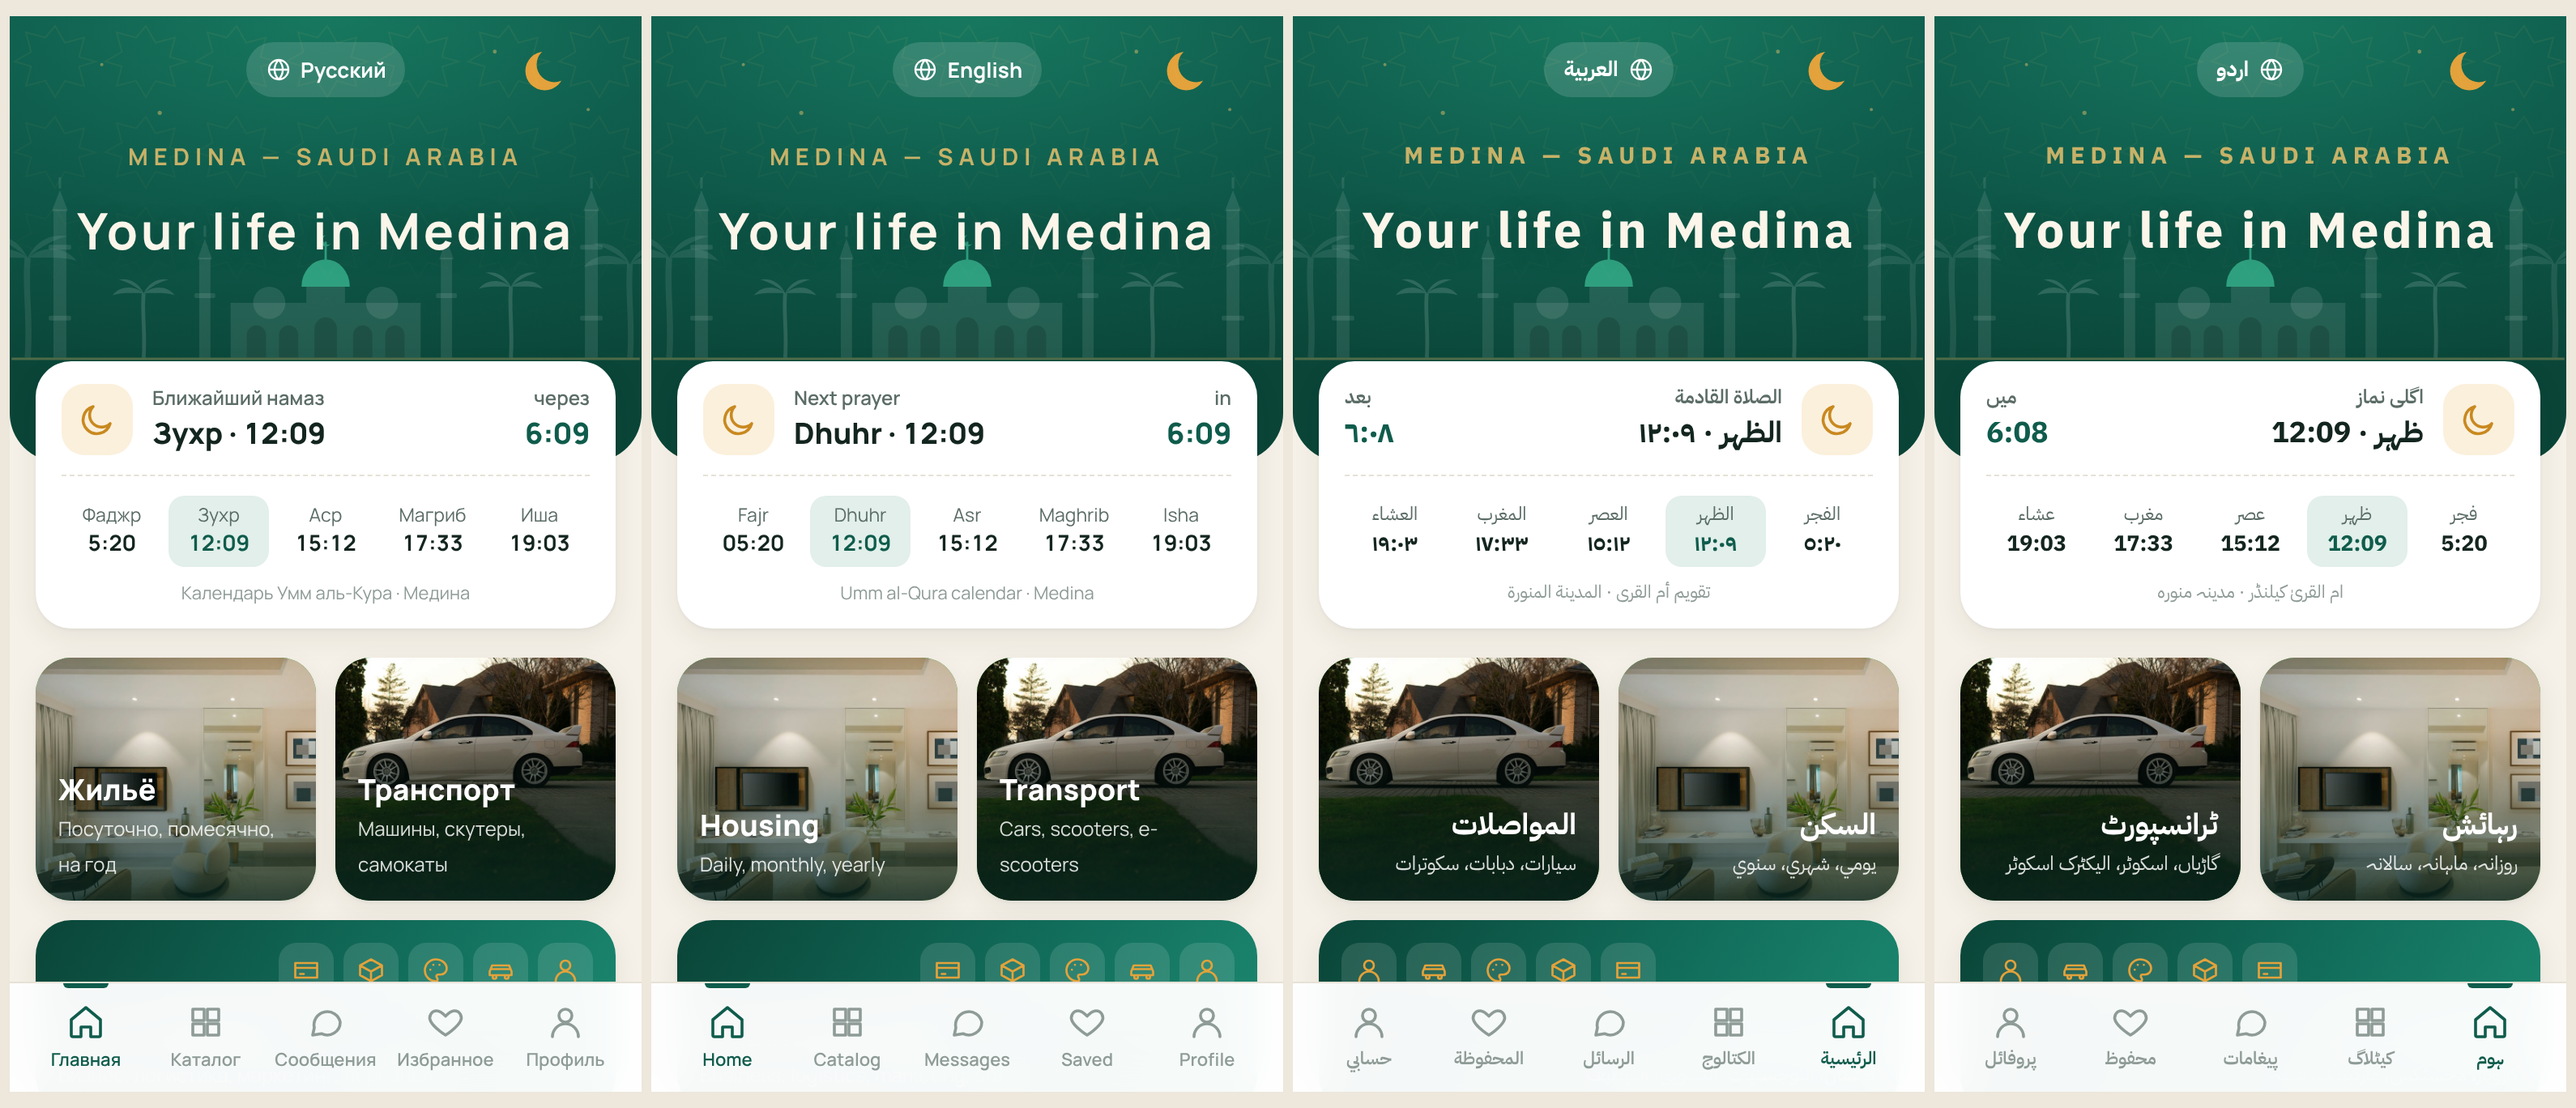
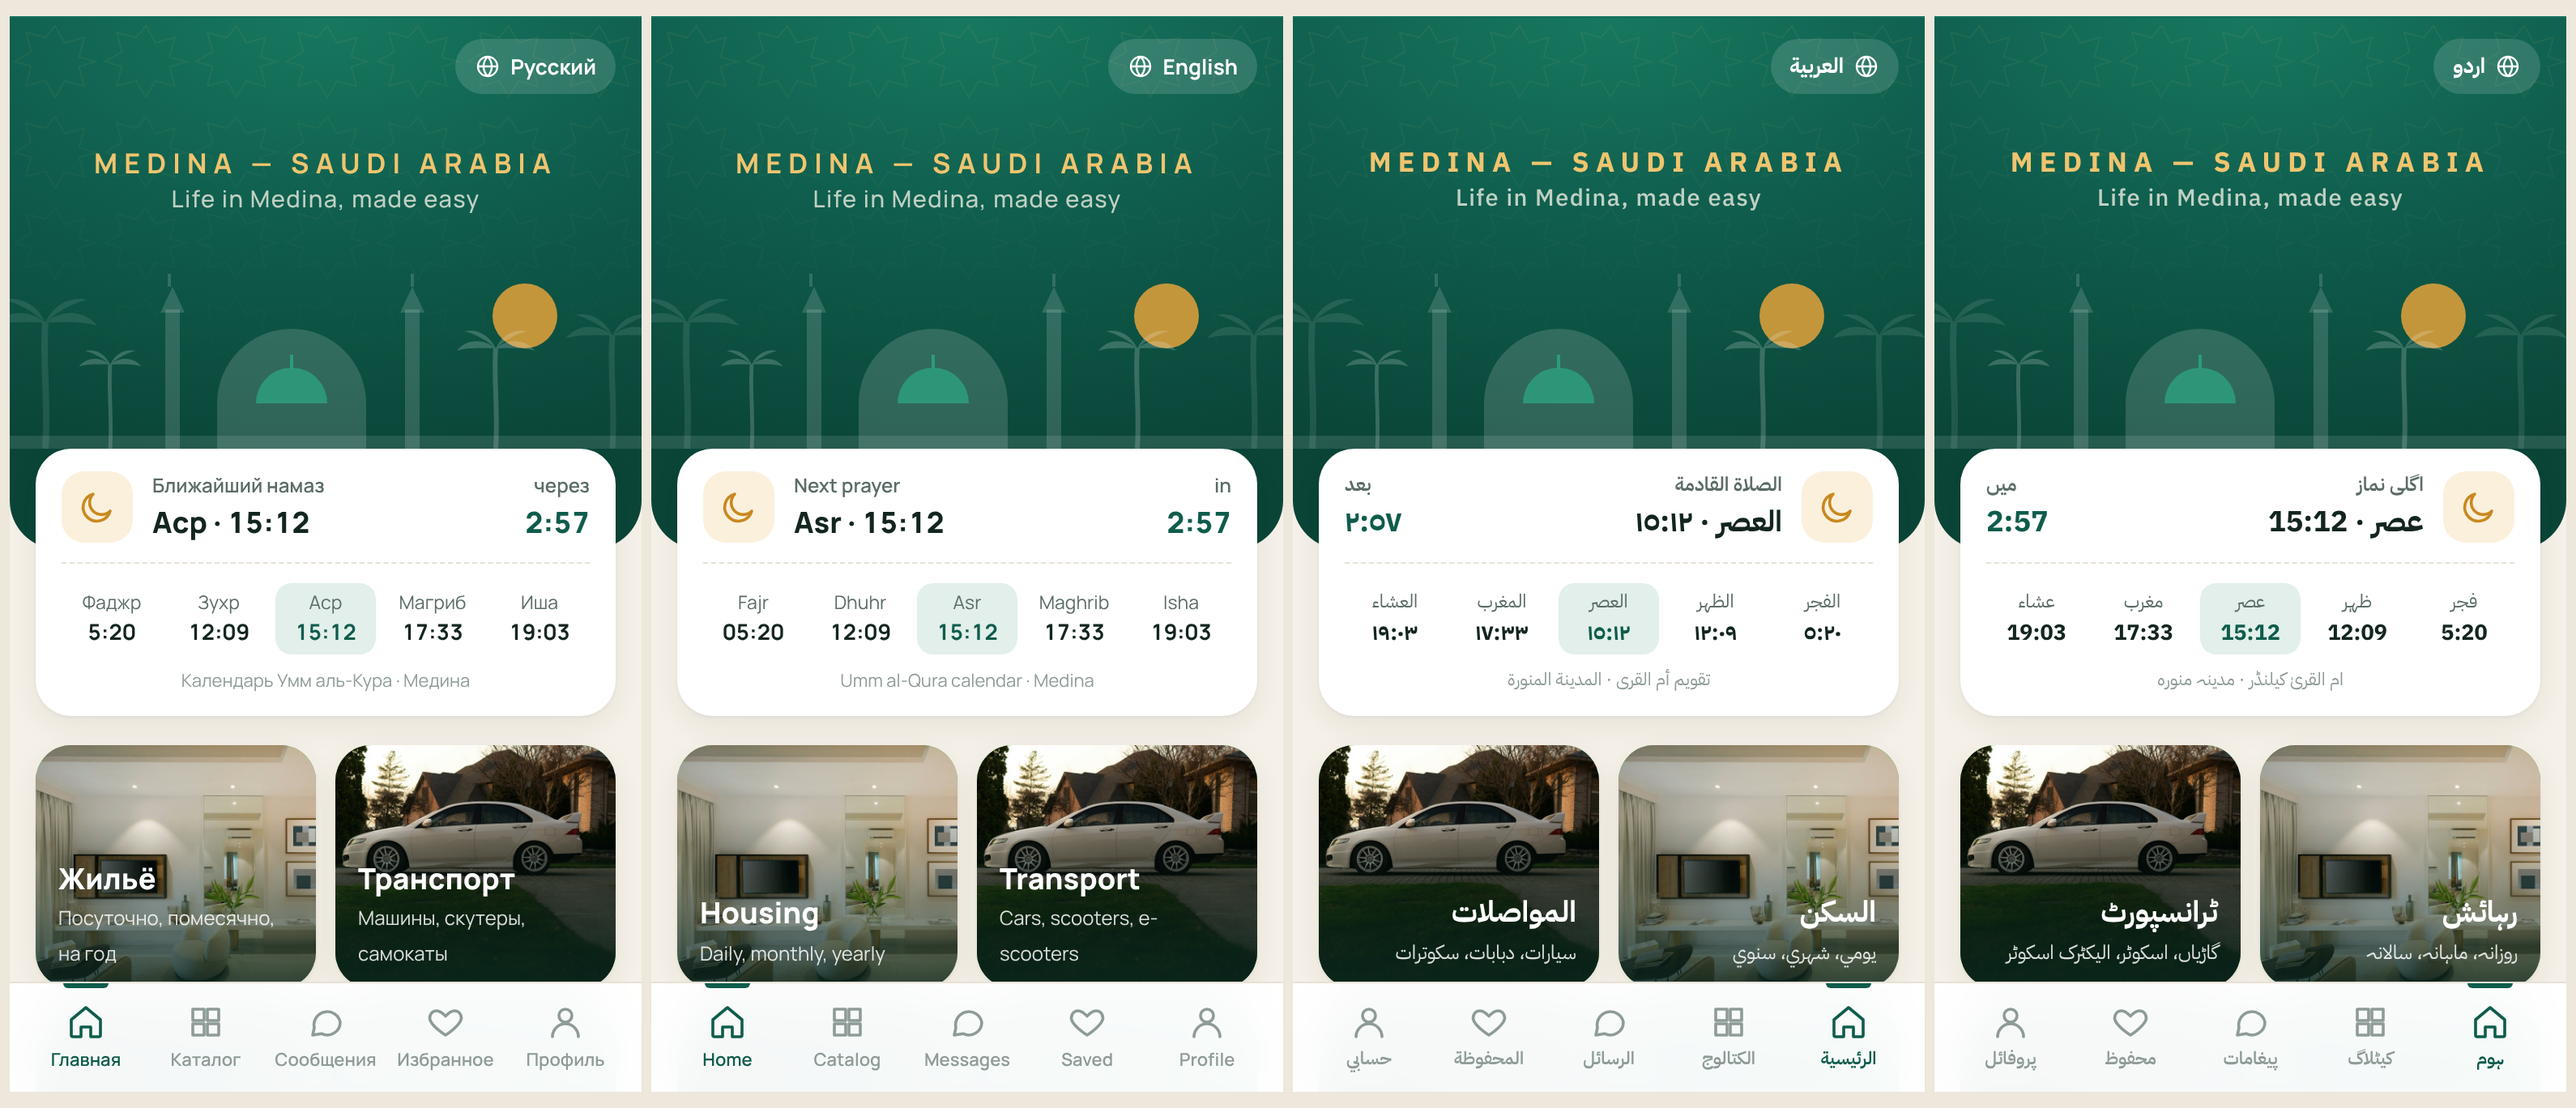
Header: no search, no title; lang button top-right; larger 'Medina — Saudi Arabia' + 'Life in Medina, made easy'; original skyline; green status-bar strip
Claude-Session: https://claude.ai/code/session_01BhYsyRGkijV8fKCZbgF8Zs

diff --git a/nakhlio/app.js b/nakhlio/app.js
@@ -78,17 +78,6 @@ const ic = (n, cls) => `<svg class="${cls || ''}" viewBox="0 0 24 24" fill="${FI
 /* ---------- brand & illustrations ---------- */
 const logo = (bg) => `<svg viewBox="0 0 64 64" aria-hidden="true"><rect width="64" height="64" rx="18" fill="${bg || '#0F5C4C'}"/><path d="M15 54V30a17 17 0 0 1 34 0v24z" fill="#F6F1E8"/><g fill="none" stroke="#0F5C4C" stroke-width="2.6" stroke-linecap="round"><path d="M32 52V31"/><path d="M32 31c-4-4-10-4.5-14-1.5"/><path d="M32 31c4-4 10-4.5 14-1.5"/><path d="M32 31c-3-6-8-8.5-12.5-8"/><path d="M32 31c3-6 8-8.5 12.5-8"/><path d="M32 31c-.5-6 .5-10 0-12.5"/></g><circle cx="29" cy="35" r="2.3" fill="#E3A23B"/><circle cx="35" cy="35" r="2.3" fill="#E3A23B"/><circle cx="32" cy="38.5" r="2.3" fill="#E3A23B"/></svg>`;
 const palmShape = (x, h, s) => `<g transform="translate(${x} ${120 - h}) scale(${s})"><path d="M0 ${h / s} C2 ${h / s * .6} -2 ${h / s * .3} 0 0" stroke="currentColor" stroke-width="4" fill="none"/><path d="M0 0c-10-8-24-8-32 2 10-3 20-2 32-2zM0 0c10-8 24-8 32 2-10-3-20-2-32-2zM0 0c-6-12-16-16-26-14 9 2 18 7 26 14zM0 0c6-12 16-16 26-14-9 2-18 7-26 14z" fill="currentColor"/></g>`;
-const skylineTall = () => `<svg class="sky sky-tall" viewBox="0 0 390 230" preserveAspectRatio="xMidYMax meet" aria-hidden="true">
-  <defs><mask id="crs"><rect width="390" height="230" fill="#fff"/><circle cx="337" cy="30" r="11" fill="#000"/></mask></defs>
-  <circle cx="331" cy="34" r="12" fill="#E3A23B" mask="url(#crs)"/>
-  <g fill="#F0C46E" opacity=".45"><circle cx="300" cy="22" r="1.2"/><circle cx="358" cy="58" r="1"/><circle cx="56" cy="30" r="1"/><circle cx="92" cy="60" r="1.3"/></g>
-  <g fill="rgba(255,255,255,.10)"><rect x="26.0" y="165" width="8" height="47"/><path d="M25.0 166h10l-5.0 -13z"/><rect x="29.2" y="145" width="1.6" height="7"/><rect x="23.0" y="187" width="14" height="3" rx="1"/><rect x="356.0" y="165" width="8" height="47"/><path d="M355.0 166h10l-5.0 -13z"/><rect x="359.2" y="145" width="1.6" height="7"/><rect x="353.0" y="187" width="14" height="3" rx="1"/><rect x="116.5" y="150" width="7" height="62"/><path d="M115.5 151h9l-4.5 -13z"/><rect x="119.2" y="130" width="1.6" height="7"/><rect x="113.5" y="172" width="13" height="3" rx="1"/><rect x="266.5" y="150" width="7" height="62"/><path d="M265.5 151h9l-4.5 -13z"/><rect x="269.2" y="130" width="1.6" height="7"/><rect x="263.5" y="172" width="13" height="3" rx="1"/>
-    <rect x="136" y="178" width="118" height="34"/><circle cx="160" cy="178" r="10"/><circle cx="230" cy="178" r="10"/><rect x="183" y="166" width="24" height="12"/></g>
-  <g fill="rgba(0,0,0,.14)"><path d="M146 212v-14a6 6 0 0 1 12 0v14zM166 212v-14a6 6 0 0 1 12 0v14zM212 212v-14a6 6 0 0 1 12 0v14zM232 212v-14a6 6 0 0 1 12 0v14z"/><path d="M188 212v-18a7 7 0 0 1 14 0v18z"/></g>
-  <path d="M180 168a15 17 0 0 1 30 0z" fill="#2FA07F"/><rect x="194.3" y="140" width="1.4" height="12" fill="#2FA07F"/><path d="M195 136a3.5 3.5 0 1 0 3 5.5a3 3 0 1 1 -3 -5.5z" fill="#2FA07F"/>
-  <g transform="translate(0 92)"><g color="rgba(255,255,255,.09)">${palmShape(10, 62, .95)}${palmShape(384, 58, .9)}</g><g color="rgba(255,255,255,.14)">${palmShape(82, 40, .6)}${palmShape(310, 44, .62)}</g></g>
-  <rect x="0" y="212" width="390" height="1.5" fill="#F0C46E" opacity=".3"/>
-</svg>`;
 const skyline = () => `<svg class="sky" viewBox="0 0 400 120" preserveAspectRatio="xMidYMax slice" aria-hidden="true">
   <circle cx="318" cy="38" r="20" fill="#E3A23B" opacity=".9"/>
   <g color="rgba(255,255,255,.10)">${palmShape(22, 78, 1)}${palmShape(372, 70, .9)}</g>
@@ -279,12 +268,11 @@ V.home = () => {
   const prow = ['fajr', 'dhuhr', 'asr', 'maghrib', 'isha'].map(k => `<div class="${k === np.nx ? 'on' : ''}">${t(k)}<b class="num">${hm(np.pt[k])}</b></div>`).join('');
   const nextDay = DAYS.map(d => ({ d, left: Math.ceil((new Date(d.date + 'T00:00:00+03:00') - Date.now()) / 864e5) })).filter(x => x.left >= 0)[0];
   return { tabs: true, raw: true, html: `
-  <div class="hero hero3">${skylineTall()}<div class="hero3-pat" aria-hidden="true"></div>
+  <div class="hero hero3 hero5">${skyline()}<div class="hero3-pat" aria-hidden="true"></div><span class="hero-sbar" aria-hidden="true"></span>
     <button class="lang-pill hero2-lang" data-act="go" data-v="lang">${ic('globe')}${esc((LANGS.find(l => l.code === lang) || {}).name)}</button>
     <div class="hero3-c hero4" dir="ltr" lang="en">
-      <p class="hero4-loc">Medina — Saudi Arabia</p>
-      <h1 class="hero4-big">Your life in Medina</h1></div>
-    <label class="search hero4-search">${ic('search')}<input id="q" type="search" placeholder="${t('search_ph')}" enterkeyhint="search" aria-label="${t('search_ph')}"></label>
+      <h1 class="hero4-loc">Medina — Saudi Arabia</h1>
+      <p class="hero5-tag">Life in Medina, made easy</p></div>
   </div>
   <div class="prayer" id="prayerCard">
     <div class="prayer-head"><span class="prayer-ico">${ic('moon')}</span><div><small>${t('next_prayer')}</small><b>${t(np.nx)} · <span class="num">${hm(np.pt[np.nx])}</span></b></div>

diff --git a/magaam/index.html b/magaam/index.html
@@ -1017,9 +1017,7 @@ html,body{max-width:100%;overflow-x:clip}
 .hero3-ayah{margin:0;max-width:34ch}.hero3-ayah blockquote{margin:0;font-family:'Amiri',serif;font-size:25px;line-height:1.7;color:#F0C46E;font-weight:700}
 .hero3-ayah figcaption{font-size:14px;line-height:1.45;color:rgba(251,245,234,.85);margin-top:2px}.hero3-ayah cite{display:block;font-style:normal;font-size:11.5px;letter-spacing:.6px;color:rgba(240,196,110,.8);margin-top:4px}
 .hero3-only{display:inline-flex;align-items:center;gap:6px;margin-top:16px;padding:7px 14px;border-radius:20px;background:rgba(10,69,56,.55);border:1px solid rgba(240,196,110,.35);font-size:13px;font-weight:600;color:#FBF5EA;backdrop-filter:blur(6px);-webkit-backdrop-filter:blur(6px)}.hero3-only svg{width:15px;height:15px;color:#F0C46E}
-.hero.hero3:has(.hero4){padding-bottom:120px}
 .hero4{padding-top:26px}
-.hero4-big{font-family:inherit;font-weight:700;font-size:31px;line-height:1.15;margin:2px 0 4px;color:#FBF5EA;letter-spacing:.06em;text-shadow:0 2px 18px rgba(0,0,0,.18)}
 .hero4-ayah{margin:0;max-width:32ch}.hero4-ayah blockquote{margin:0;font-family:'Amiri',serif;font-size:26px;line-height:1.6;color:#F0C46E;font-weight:700}.hero4-ayah figcaption{font-family:'Playfair Display','Amiri',Georgia,serif;font-style:italic;font-size:15px;line-height:1.45;color:rgba(251,245,234,.88);margin-top:2px}.hero4-ayah cite{display:block;font-style:normal;font-size:11.5px;letter-spacing:.14em;text-transform:uppercase;color:rgba(240,196,110,.75);margin-top:6px}
 .hero4 .hero3-logo{width:92px;height:92px;border-radius:26px;margin-top:30px}
 .hero4-name{font-family:'Playfair Display',Georgia,serif;font-weight:700;font-size:40px;line-height:1;margin:16px 0 0;color:#FBF5EA;letter-spacing:.5px}
@@ -1028,10 +1026,15 @@ html,body{max-width:100%;overflow-x:clip}
 .hero4-ar{margin:8px 0 0;font-family:'Amiri',serif;font-size:18px;font-weight:700;color:rgba(251,245,234,.88);letter-spacing:0}
 [dir=rtl] .hero4-ar{font-size:20px;color:#F0C46E}
 
-.hero.hero3:has(.hero4) .sky{bottom:46px;width:100%;height:calc(100% - 46px);opacity:1}
-.hero4-search{position:relative;z-index:1;margin:18px auto 0;max-width:560px}
 .srempty b{display:block;margin-bottom:6px}
 .srchips{display:flex;flex-wrap:wrap;gap:8px;justify-content:center;margin:0 0 8px}.srchips .chip{flex:0 0 auto}
+.hero.hero3.hero5{padding-bottom:190px}
+.hero5 .sky{bottom:62px}
+.hero5 .hero2-lang{position:absolute;top:calc(14px + var(--sat));right:max(16px,var(--sar));left:auto;z-index:2;margin:0}
+.hero5 .hero4{padding-top:64px}
+.hero5 .hero4-loc{font-size:17px;line-height:1.3}
+.hero5-tag{margin:10px 0 0;font-size:15px;font-weight:500;letter-spacing:.05em;color:rgba(251,245,234,.92)}
+.hero-sbar{position:fixed;top:0;left:0;right:0;height:max(var(--sat),1px);background:#12705D;z-index:30;pointer-events:none}
 </style>
 </head>
 <body>

diff --git a/nakhlio/index.html b/nakhlio/index.html
@@ -1008,9 +1008,7 @@ html,body{max-width:100%;overflow-x:clip}
 .hero3-ayah{margin:0;max-width:34ch}.hero3-ayah blockquote{margin:0;font-family:'Amiri',serif;font-size:25px;line-height:1.7;color:#F0C46E;font-weight:700}
 .hero3-ayah figcaption{font-size:14px;line-height:1.45;color:rgba(251,245,234,.85);margin-top:2px}.hero3-ayah cite{display:block;font-style:normal;font-size:11.5px;letter-spacing:.6px;color:rgba(240,196,110,.8);margin-top:4px}
 .hero3-only{display:inline-flex;align-items:center;gap:6px;margin-top:16px;padding:7px 14px;border-radius:20px;background:rgba(10,69,56,.55);border:1px solid rgba(240,196,110,.35);font-size:13px;font-weight:600;color:#FBF5EA;backdrop-filter:blur(6px);-webkit-backdrop-filter:blur(6px)}.hero3-only svg{width:15px;height:15px;color:#F0C46E}
-.hero.hero3:has(.hero4){padding-bottom:120px}
 .hero4{padding-top:26px}
-.hero4-big{font-family:inherit;font-weight:700;font-size:31px;line-height:1.15;margin:2px 0 4px;color:#FBF5EA;letter-spacing:.06em;text-shadow:0 2px 18px rgba(0,0,0,.18)}
 .hero4-ayah{margin:0;max-width:32ch}.hero4-ayah blockquote{margin:0;font-family:'Amiri',serif;font-size:26px;line-height:1.6;color:#F0C46E;font-weight:700}.hero4-ayah figcaption{font-family:'Playfair Display','Amiri',Georgia,serif;font-style:italic;font-size:15px;line-height:1.45;color:rgba(251,245,234,.88);margin-top:2px}.hero4-ayah cite{display:block;font-style:normal;font-size:11.5px;letter-spacing:.14em;text-transform:uppercase;color:rgba(240,196,110,.75);margin-top:6px}
 .hero4 .hero3-logo{width:92px;height:92px;border-radius:26px;margin-top:30px}
 .hero4-name{font-family:'Playfair Display',Georgia,serif;font-weight:700;font-size:40px;line-height:1;margin:16px 0 0;color:#FBF5EA;letter-spacing:.5px}
@@ -1019,10 +1017,15 @@ html,body{max-width:100%;overflow-x:clip}
 .hero4-ar{margin:8px 0 0;font-family:'Amiri',serif;font-size:18px;font-weight:700;color:rgba(251,245,234,.88);letter-spacing:0}
 [dir=rtl] .hero4-ar{font-size:20px;color:#F0C46E}
 
-.hero.hero3:has(.hero4) .sky{bottom:46px;width:100%;height:calc(100% - 46px);opacity:1}
-.hero4-search{position:relative;z-index:1;margin:18px auto 0;max-width:560px}
 .srempty b{display:block;margin-bottom:6px}
 .srchips{display:flex;flex-wrap:wrap;gap:8px;justify-content:center;margin:0 0 8px}.srchips .chip{flex:0 0 auto}
+.hero.hero3.hero5{padding-bottom:190px}
+.hero5 .sky{bottom:62px}
+.hero5 .hero2-lang{position:absolute;top:calc(14px + var(--sat));right:max(16px,var(--sar));left:auto;z-index:2;margin:0}
+.hero5 .hero4{padding-top:64px}
+.hero5 .hero4-loc{font-size:17px;line-height:1.3}
+.hero5-tag{margin:10px 0 0;font-size:15px;font-weight:500;letter-spacing:.05em;color:rgba(251,245,234,.92)}
+.hero-sbar{position:fixed;top:0;left:0;right:0;height:max(var(--sat),1px);background:#12705D;z-index:30;pointer-events:none}
 </style>
 </head>
 <body>
